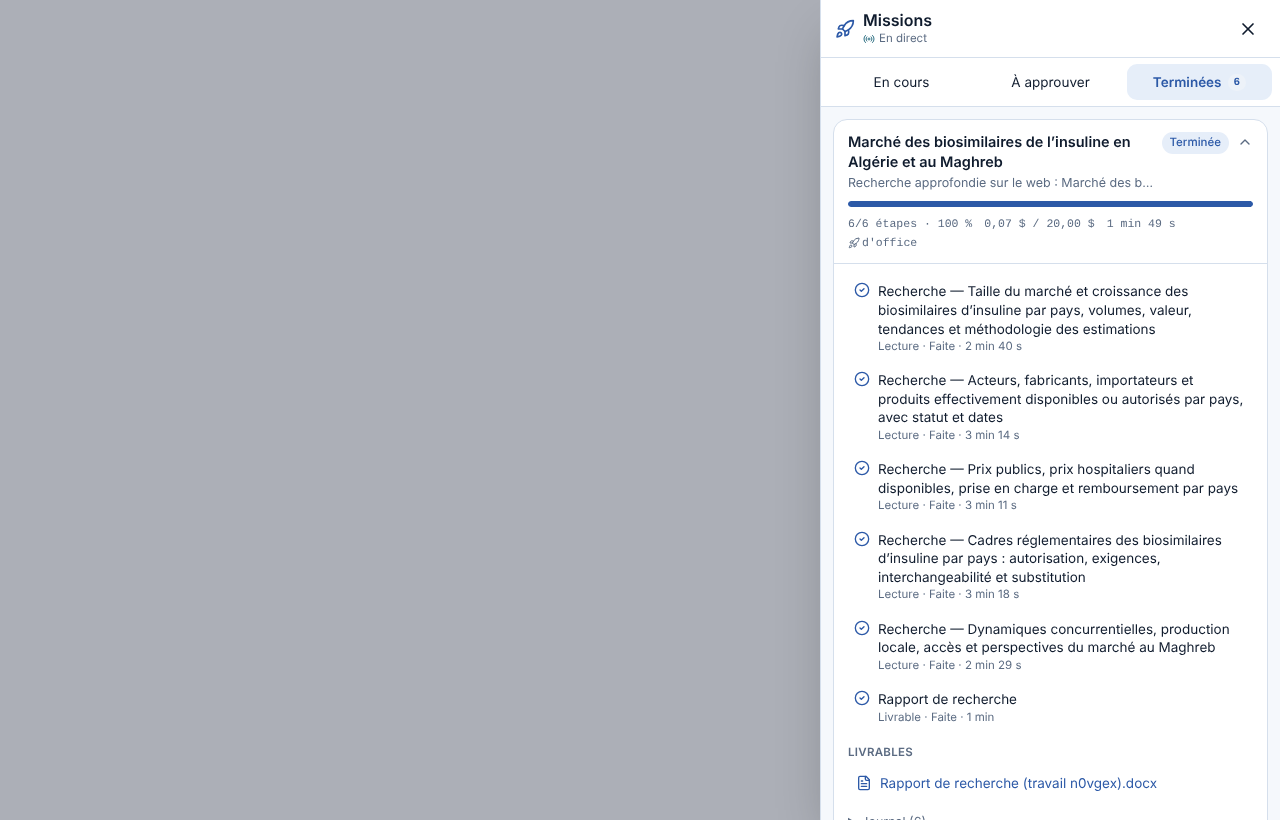
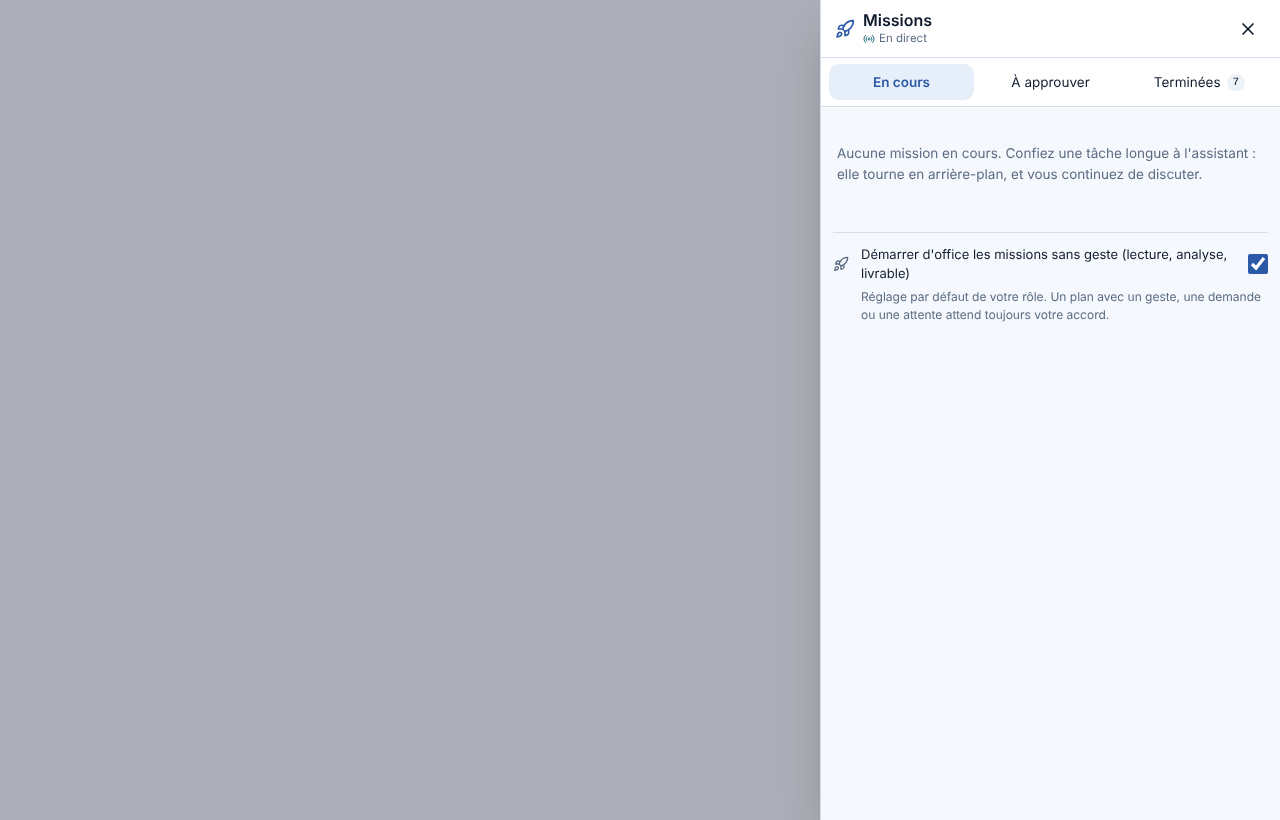
docs(assistant-ia): K3 § 7 — recherche approfondie réelle d'un trait sur le build final : 5 sous-recherches en cours ensemble au tableau, rapport sourcé, PDF + Word (2,12 $)
Claude-Session: https://claude.ai/code/session_01VhQtxbDJynQ2Lti32hrZmX

diff --git a/docs/assistant/decisions/0033-sous-missions.md b/docs/assistant/decisions/0033-sous-missions.md
@@ -127,6 +127,7 @@ worker à côté (`TACHES_DE_FOND=les-deux`), vrai modèle par le mandataire, Ch
 | Dépôt d'office | « 20 fichiers : tout lire en arrière-plan » ; 20 téléversés, 20 lus par la Bibliothèque, 0 échec, en 4 s |
 | Largeur | `scrollWidth` = largeur partout (1280, 390) ; cibles ≥ 44 px sur téléphone |
 | Recherche approfondie (réelle) | 5 sous-recherches web lancées ensemble (19:05:28), 2 min 29 à 3 min 18 chacune ; rapport de 20 981 caractères, 10 sections, 21 sources numérotées ; Word ET PDF au Drive ; rapport affiché en entier dans la conversation (captures 30b à 33) |
+| Recherche approfondie — passage d'un trait (sur le build final) | 5 sous-recherches EN COURS ENSEMBLE au tableau (captures 30-…-1 et -2) ; terminée en 2 min 03 sans reprise ; rapport de 20 524 caractères, 10 sections, 21 sources numérotées ; « Documents : … .pdf · … .docx » dans la conversation (capture 32) ; 0 erreur console ; 2,12 $ (9 appels) |
 | Coût de la recherche approfondie | 2,04 $ pour les recherches web (≈ 0,35 à 0,56 $ par sous-recherche, modèle du rôle worker) + 0,07 $ de rédaction ; la reprise : 0,07 $ |
 | Coût réel du passage | 10 appels de modèle, 0,083 $ (le premier passage complet : 15 appels, 0,133 $) |
 
